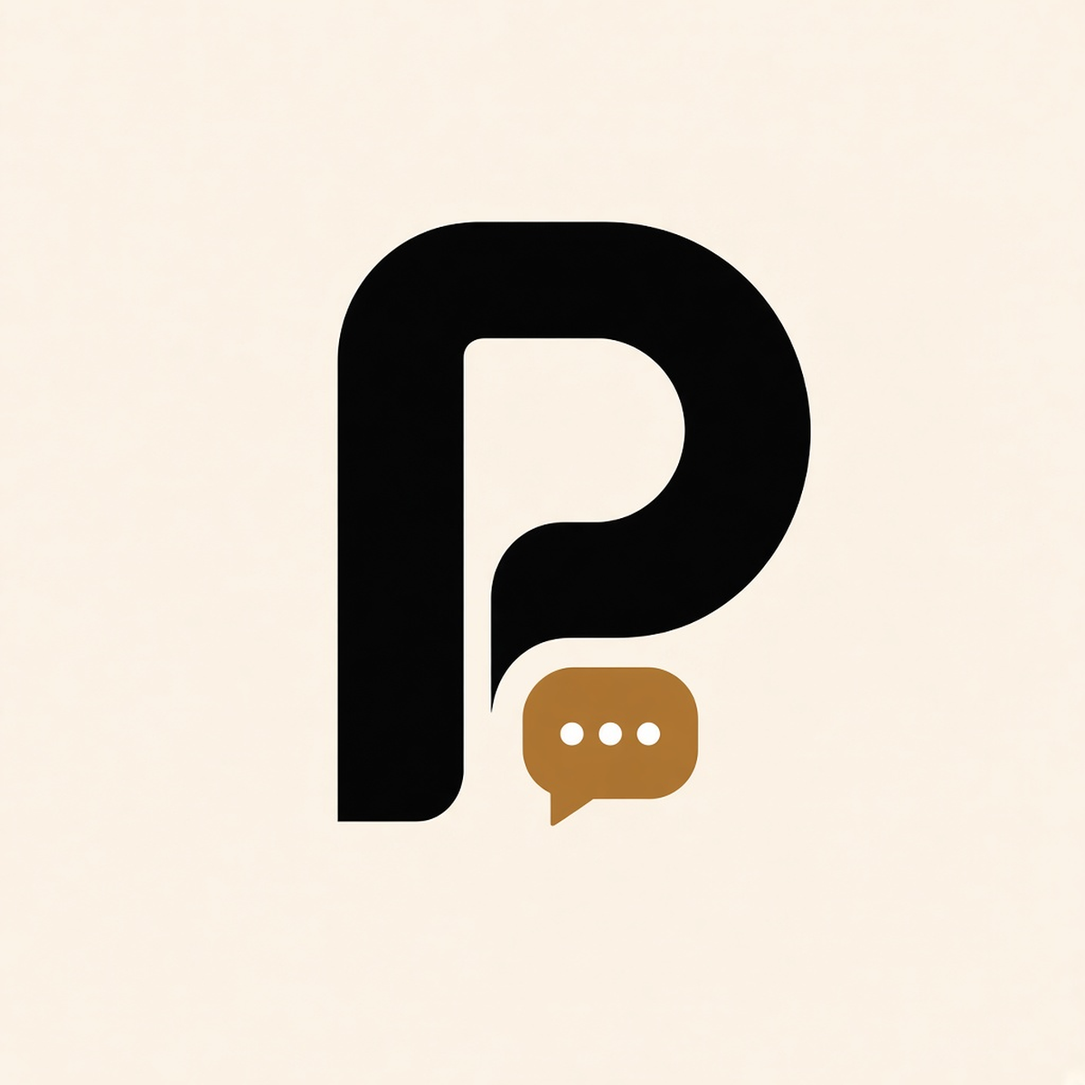
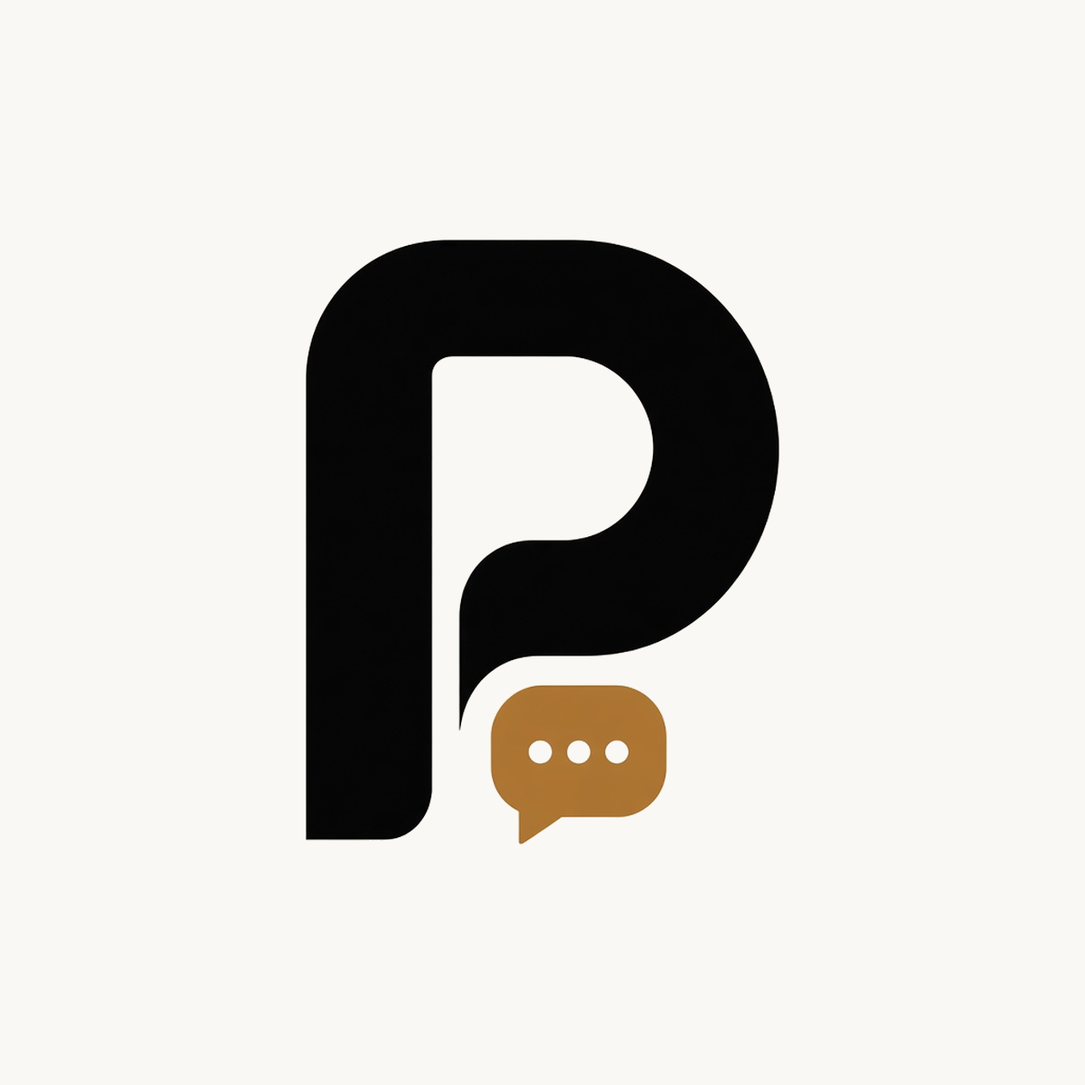
feat(podai): optional GA4 + App Store upload prep notes
Add PODAI_GA_ID / PODAI_LISTING_GA_ID. Admin + storefront emit
anonymous events (consent-aware on storefront). Privacy policy
mentions GA4. Plan A billing: Shopify App Pricing (no Billing API).
Listing icon refreshed to cream tile + approved P.

Changed region(s): [[0.2775, 0.2467, 0.6475, 0.8017], [0.3392, 0.185, 0.7708, 0.5858]]

diff --git a/apps/shopify-agent/extensions/podai-chat/assets/chat.js b/apps/shopify-agent/extensions/podai-chat/assets/chat.js
@@ -1,2 +1,1 @@
-/*! Pod.AI chat. Source: apps/shopify-agent/src/chat.js (npx terser src/chat.js -c -m) */
-!function(){var e=document.getElementById("podai-chat-root");if(e&&!e.dataset.ready){e.dataset.ready="1";var t=e.dataset,n=t.proxy,i="podai_conv",a=null,r=!1,o=!1,c={};try{a=sessionStorage.getItem(i)}catch(e){}var l=String(t.lang||navigator.language||"en").toLowerCase(),p=["zh","de","fr","it"].filter(function(e){return 0===l.indexOf(e)})[0]||"en",s={online:"Online · replies instantly",hi:"Hi! Ask me about products, shipping or your order.",open:"Open chat",close:"Close chat",send:"Send",view:"View",add:"Add to cart",track:"Track parcel",email:"Your e-mail",ok:"Send",err:"Sorry, the chat is not available right now.",chips:["Show products","Where is my order?","Shipping costs"],by:"AI assistant · may make mistakes",items:"Items",reply:"We'll reply to {e}.",change:"Change e-mail",thanks:"Thanks — our team will reply by e-mail."},d=C(p),u=L("button","pc-l"),f=L("div","pc-w"),m=L("div","pc-h"),h=L("div","pc-av"),g=L("div","pc-t"),v=L("b"),b=L("small",null,d.online),y=L("button"),w=L("div","pc-log"),k=L("form","pc-f"),x=L("textarea"),A=L("button"),S=L("div","pc-ft",d.by),_=L("div","pc-sr");u.type="button",u.setAttribute("aria-label",d.open),u.setAttribute("aria-expanded","false"),u.setAttribute("aria-controls","pc-win"),u.innerHTML=E('<path class="o" d="M21 12a8 8 0 0 1-11.6 7.1L4 20l1-4.6A8 8 0 1 1 21 12z"/>').replace("<svg ",'<svg class="o" ')+E('<path d="M18 6 6 18M6 6l12 12"/>').replace("<svg ",'<svg class="x" '),f.id="pc-win",f.setAttribute("role","dialog"),f.setAttribute("aria-modal","false"),f.setAttribute("aria-label",t.shop||"Chat"),y.type="button",y.setAttribute("aria-label",d.close),y.innerHTML=E('<path d="M6 9l6 6 6-6"/>'),w.setAttribute("role","log"),w.setAttribute("aria-live","polite"),_.setAttribute("aria-live","polite"),x.rows=1,x.maxLength=1e3,x.placeholder=t.placeholder||{en:"Write a message…",zh:"输入您的问题…",de:"Ihre Frage…",fr:"Votre message…",it:"Scrivi un messaggio…"}[p],x.setAttribute("aria-label",x.placeholder),A.type="submit",A.setAttribute("aria-label",d.send),A.innerHTML=E('<path d="M5 12h14M13 6l6 6-6 6"/>'),g.append(v,b),m.append(h,g,y),k.append(x,A),f.append(m,w,k,S,_),M(),document.body.append(u,f),fetch(n+"/config",{credentials:"same-origin"}).then(function(e){return e.ok?e.json():{}}).then(function(e){if(!1===(c=e||{}).enabled)return u.remove(),void f.remove();c.widget&&c.widget.language&&"auto"!==c.widget.language&&["en","zh","de","fr","it"].indexOf(c.widget.language)>=0&&(p=c.widget.language,d=C(p),b.textContent=d.online,S.textContent=d.by),M();try{var t="podai_ping",n=Date.now();n-(+localStorage.getItem(t)||0)<864e5||(localStorage.setItem(t,n),T("embed_ping"))}catch(e){}}).catch(function(){}),u.onclick=function(){U()},y.onclick=function(){U(!1)},document.addEventListener("keydown",function(e){"Escape"===e.key&&f.classList.contains("pc-on")&&U(!1)}),x.addEventListener("input",function(){x.style.height="auto",x.style.height=Math.min(110,x.scrollHeight)+"px"}),x.addEventListener("keydown",function(e){"Enter"!==e.key||e.shiftKey||(e.preventDefault(),k.requestSubmit?k.requestSubmit():k.onsubmit(e))}),k.onsubmit=function(e){e.preventDefault();var t=x.value;x.value="",x.style.height="auto",D(t)},/[?&]podai=open/.test(location.search)&&U(!0)}function C(e){var t=window.PodAIChatI18n||{};return"en"===e?s:t[e]||s}function L(e,t,n){var i=document.createElement(e);return t&&(i.className=t),null!=n&&(i.textContent=n),i}function E(e){return'<svg viewBox="0 0 24 24" fill="none" stroke="currentColor" stroke-width="2" stroke-linecap="round" stroke-linejoin="round" aria-hidden="true">'+e+"</svg>"}function I(e,t){return fetch(n+e,{method:"POST",headers:{"Content-Type":"application/json"},credentials:"same-origin",body:JSON.stringify(t)})}function T(e,t){try{I("/event",Object.assign({type:e,conversation_id:a},t||{})).catch(function(){})}catch(e){}}function M(){var e=/^#[0-9a-f]{6}$/i.test(t.accent||"")?t.accent:c.widget&&c.widget.color||"#2b2520",n="left"===("left"===t.position||"right"===t.position?t.position:c.widget&&c.widget.position||"right")?"pc-lft":"pc-r";[u,f].forEach(function(t){t.style.setProperty("--a",e),t.classList.remove("pc-lft","pc-r"),t.classList.add(n)}),v.textContent=t.title||c.widget&&c.widget.title||t.shop||"Chat";var i=t.avatar||c.widget&&c.widget.avatar;if(h.innerHTML="",i){var a=L("img");a.src=i,a.alt="",h.append(a)}else h.textContent=String(v.textContent).trim().charAt(0).toUpperCase()||"P"}function j(){w.scrollTop=w.scrollHeight}function H(e,t){var n=L("div","pc-m "+e,t);return w.append(n),j(),n}function O(e){var t=L("div","pc-ch");e.forEach(function(e){var n=L("button",null,e);n.type="button",n.onclick=function(){t.remove(),D(e)},t.append(n)}),w.append(t),j()}function P(e){try{var t=new URL(e,location.origin);return t.origin===location.origin&&(t.searchParams.set("utm_source","podai"),t.searchParams.set("utm_medium","chat")),t.toString()}catch(t){return e}}function q(e){(e||[]).forEach(function(e){if("chips"===e.type&&e.items&&e.items.length&&O(e.items),"products"===e.type){var t=L("div","pc-car");t.setAttribute("role","list"),e.items.forEach(function(e){if(e.link){var n=L("div","pc-pc");n.setAttribute("role","listitem");var i=L("a","pc-img");if(i.href=P(e.link),i.tabIndex=-1,i.onclick=function(){T("product_click",{product_id:e.id})},e.image){var a=L("img");a.src=e.image+(e.image.indexOf("?")<0?"?width=320":""),a.alt=e.name,a.loading="lazy",a.width=156,a.height=156,i.append(a)}var r=L("div","pc-b");r.append(L("b",null,e.name),L("span","pc-p",function(e,t){if(!isFinite(e))return"";try{return new Intl.NumberFormat(document.documentElement.lang||void 0,{style:"currency",currency:t||"USD"}).format(e)}catch(n){return Number(e).toFixed(2)+" "+(t||"")}}(e.unit_price,e.currency)));var o=L("div","pc-btn"),c=L("a",null,d.view);if(c.href=P(e.link),c.onclick=i.onclick,o.append(c),e.variant_id){var l=L("a","pc-pri",d.add);l.href="/cart/add?id="+encodeURIComponent(e.variant_id)+"&quantity=1&utm_source=podai&utm_medium=chat",l.onclick=function(){T("add_to_cart",{product_id:e.id})},o.append(l)}r.append(o),n.append(i,r),t.append(n);try{var p=new URL(e.link,location.origin);(p.origin===location.origin||/\.myshopify\.com$/.test(p.hostname))&&fetch(p.pathname.replace(/\/$/,"")+".js",{credentials:"same-origin"}).then(function(e){404===e.status&&(n.remove(),t.children.length||t.remove())}).catch(function(){})}catch(e){}}}),w.append(t),e.note&&w.append(L("div","pc-note",e.note))}if("handoff"===e.type)if(e.email){var n=L("div","pc-hf pc-hr"),i=L("span",null,d.reply.replace("{e}",e.email)),a=L("button","pc-sm",d.change);a.type="button",a.style.flex="0 0 auto",a.onclick=function(){n.remove(),z()},n.append(i,a),w.append(n)}else z();if("order"===e.type&&e.order){var r=e.order,o=L("div","pc-oc"),c=L("div","pc-r1"),l=String(r.cancelled?"cancelled":r.fulfillment||"").toLowerCase().replace(/_/g," "),p=L("span","pc-bd"+(/^fulfilled|delivered/.test(l)?" ok":""),l);c.append(L("b",null,r.name),p),o.append(c),o.append(L("div","pc-mu",(r.items||[]).map(function(e){return e.quantity+"× "+e.title}).join(", "))),w.append(o)}if("tracking"===e.type){var s=L("div","pc-oc"),u=L("div","pc-r1");if(u.append(L("b",null,e.carrier||"")),u.append(L("span","pc-mu",e.number)),e.status&&u.append(L("span","pc-bd",e.status)),s.append(u),e.events&&e.events.length){var f=L("ul","pc-tl");e.events.slice(0,4).forEach(function(e){var t=L("li");t.append(L("b",null,e.text||""),L("span","pc-mu",[e.time&&String(e.time).slice(0,16).replace("T"," "),e.location].filter(Boolean).join(" · "))),f.append(t)}),s.append(f)}if(e.url){var m=L("a","pc-sm pc-pri",d.track+" →");m.href=e.url,m.target="_blank",m.rel="noopener",s.append(m)}w.append(s)}}),j()}function z(){var e=L("form","pc-hf"),t=L("input"),n=L("button","pc-sm pc-pri",d.ok);t.type="email",t.required=!0,t.placeholder=d.email,t.autocomplete="email",t.setAttribute("aria-label",d.email),n.type="submit",n.style.flex="0 0 auto",e.append(t,n),e.onsubmit=function(n){if(n.preventDefault(),t.checkValidity()){var i=t.value;e.remove(),D(i,!1,!0)}},w.append(e),j(),setTimeout(function(){t.focus()},50)}function D(e,t,n){if((e=String(e||"").trim())&&!r){r=!0,A.disabled=!0,t||H("pc-u",e);var o=L("div","pc-ty");o.innerHTML="<i></i><i></i><i></i>",o.setAttribute("aria-label","…"),w.append(o),j(),I("/chat",{message:e,conversation_id:a,lang:p,page:location.pathname}).then(function(e){return e.json()}).then(function(e){if(o.remove(),e.conversation_id){a=e.conversation_id;try{sessionStorage.setItem(i,a)}catch(e){}}e.language&&(d=C(e.language)),H("pc-a",e.answer||d.err),_.textContent=e.answer||"",q(e.ui);var t=(e.ui||[]).some(function(e){return"handoff"===e.type});e.handoff&&!t&&!n&&/e-?mail|邮箱/i.test(e.answer||"")&&z()}).catch(function(){o.remove(),H("pc-a",d.err)}).then(function(){r=!1,A.disabled=!1})}}function U(e){if(e=null==e?!f.classList.contains("pc-on"):e,f.classList.toggle("pc-on",e),u.setAttribute("aria-expanded",String(e)),u.setAttribute("aria-label",e?d.close:d.open),e&&!o){d=C(p),b.textContent=d.online,S.textContent=d.by,o=!0,T("chat_open");var n=c.greeting&&c.greeting[p];H("pc-a",t.greeting||n||d.hi),O(d.chips)}e?setTimeout(function(){window.innerWidth>520&&x.focus()},250):u.focus(),window.innerWidth<=520&&(document.documentElement.style.overflow=e?"hidden":"")}}();
+!function(){var e=document.getElementById("podai-chat-root");if(e&&!e.dataset.ready){e.dataset.ready="1";var t=e.dataset,n=t.proxy,i="podai_conv",a=null,o=!1,r=!1,c={};try{a=sessionStorage.getItem(i)}catch(e){}var l=String(t.lang||navigator.language||"en").toLowerCase(),s=["zh","de","fr","it"].filter(function(e){return 0===l.indexOf(e)})[0]||"en",p={online:"Online · replies instantly",hi:"Hi! Ask me about products, shipping or your order.",open:"Open chat",close:"Close chat",send:"Send",view:"View",add:"Add to cart",track:"Track parcel",email:"Your e-mail",ok:"Send",err:"Sorry, the chat is not available right now.",chips:["Show products","Where is my order?","Shipping costs"],by:"AI assistant · may make mistakes",items:"Items",reply:"We'll reply to {e}.",change:"Change e-mail",thanks:"Thanks — our team will reply by e-mail."},d=E(s),u="",f=!1,g=I("button","pc-l"),m=I("div","pc-w"),h=I("div","pc-h"),v=I("div","pc-av"),y=I("div","pc-t"),b=I("b"),w=I("small",null,d.online),k=I("button"),_=I("div","pc-log"),S=I("form","pc-f"),A=I("textarea"),x=I("button"),C=I("div","pc-ft",d.by),L=I("div","pc-sr");g.type="button",g.setAttribute("aria-label",d.open),g.setAttribute("aria-expanded","false"),g.setAttribute("aria-controls","pc-win"),g.innerHTML=T('<path class="o" d="M21 12a8 8 0 0 1-11.6 7.1L4 20l1-4.6A8 8 0 1 1 21 12z"/>').replace("<svg ",'<svg class="o" ')+T('<path d="M18 6 6 18M6 6l12 12"/>').replace("<svg ",'<svg class="x" '),m.id="pc-win",m.setAttribute("role","dialog"),m.setAttribute("aria-modal","false"),m.setAttribute("aria-label",t.shop||"Chat"),k.type="button",k.setAttribute("aria-label",d.close),k.innerHTML=T('<path d="M6 9l6 6 6-6"/>'),_.setAttribute("role","log"),_.setAttribute("aria-live","polite"),L.setAttribute("aria-live","polite"),A.rows=1,A.maxLength=1e3,A.placeholder=t.placeholder||{en:"Write a message…",zh:"输入您的问题…",de:"Ihre Frage…",fr:"Votre message…",it:"Scrivi un messaggio…"}[s],A.setAttribute("aria-label",A.placeholder),x.type="submit",x.setAttribute("aria-label",d.send),x.innerHTML=T('<path d="M5 12h14M13 6l6 6-6 6"/>'),y.append(b,w),h.append(v,y,k),S.append(A,x),m.append(h,_,S,C,L),H(),document.body.append(g,m),fetch(n+"/config",{credentials:"same-origin"}).then(function(e){return e.ok?e.json():{}}).then(function(e){if(!1===(c=e||{}).enabled)return g.remove(),void m.remove();c.ga_id&&/^G-[A-Z0-9]+$/i.test(c.ga_id)&&(u=String(c.ga_id).toUpperCase()),c.widget&&c.widget.language&&"auto"!==c.widget.language&&["en","zh","de","fr","it"].indexOf(c.widget.language)>=0&&(s=c.widget.language,d=E(s),w.textContent=d.online,C.textContent=d.by),H();try{var t="podai_ping",n=Date.now();n-(+localStorage.getItem(t)||0)<864e5||(localStorage.setItem(t,n),P("embed_ping"))}catch(e){}}).catch(function(){}),g.onclick=function(){R()},k.onclick=function(){R(!1)},document.addEventListener("keydown",function(e){"Escape"===e.key&&m.classList.contains("pc-on")&&R(!1)}),A.addEventListener("input",function(){A.style.height="auto",A.style.height=Math.min(110,A.scrollHeight)+"px"}),A.addEventListener("keydown",function(e){"Enter"!==e.key||e.shiftKey||(e.preventDefault(),S.requestSubmit?S.requestSubmit():S.onsubmit(e))}),S.onsubmit=function(e){e.preventDefault();var t=A.value;A.value="",A.style.height="auto",N(t)},/[?&]podai=open/.test(location.search)&&R(!0)}function E(e){var t=window.PodAIChatI18n||{};return"en"===e?p:t[e]||p}function I(e,t,n){var i=document.createElement(e);return t&&(i.className=t),null!=n&&(i.textContent=n),i}function T(e){return'<svg viewBox="0 0 24 24" fill="none" stroke="currentColor" stroke-width="2" stroke-linecap="round" stroke-linejoin="round" aria-hidden="true">'+e+"</svg>"}function M(e,t){return fetch(n+e,{method:"POST",headers:{"Content-Type":"application/json"},credentials:"same-origin",body:JSON.stringify(t)})}function P(e,t){try{M("/event",Object.assign({type:e,conversation_id:a},t||{})).catch(function(){})}catch(e){}}function j(e){u&&function(e){try{var t=window.Shopify&&Shopify.customerPrivacy;if(t&&"function"==typeof t.analyticsProcessingAllowed)return e(!!t.analyticsProcessingAllowed());if(window.Shopify&&Shopify.loadFeatures)return void Shopify.loadFeatures([{name:"consent-tracking-api",version:"0.1"}],function(){try{var t=Shopify.customerPrivacy;e(!t||"function"!=typeof t.analyticsProcessingAllowed||!!t.analyticsProcessingAllowed())}catch(t){e(!0)}})}catch(e){}e(!0)}(function(t){if(t){if(!f){f=!0,window.dataLayer=window.dataLayer||[],window.gtag=window.gtag||function(){dataLayer.push(arguments)};var n=document.createElement("script");n.async=!0,n.src="https://www.googletagmanager.com/gtag/js?id="+encodeURIComponent(u),document.head.appendChild(n),gtag("js",new Date),gtag("config",u,{anonymize_ip:!0,send_page_view:!1})}e&&e()}})}function O(e,t){u&&j(function(){try{var n=Object.assign({},t||{});delete n.email,delete n.message,delete n.text,delete n.conversation_id,delete n.customer,gtag("event",String(e).slice(0,40),n)}catch(e){}})}function H(){var e=/^#[0-9a-f]{6}$/i.test(t.accent||"")?t.accent:c.widget&&c.widget.color||"#2b2520",n="left"===("left"===t.position||"right"===t.position?t.position:c.widget&&c.widget.position||"right")?"pc-lft":"pc-r";[g,m].forEach(function(t){t.style.setProperty("--a",e),t.classList.remove("pc-lft","pc-r"),t.classList.add(n)}),b.textContent=t.title||c.widget&&c.widget.title||t.shop||"Chat";var i=t.avatar||c.widget&&c.widget.avatar;if(v.innerHTML="",i){var a=I("img");a.src=i,a.alt="",v.append(a)}else v.textContent=String(b.textContent).trim().charAt(0).toUpperCase()||"P"}function U(){_.scrollTop=_.scrollHeight}function z(e,t){var n=I("div","pc-m "+e,t);return _.append(n),U(),n}function D(e){var t=I("div","pc-ch");e.forEach(function(e){var n=I("button",null,e);n.type="button",n.onclick=function(){t.remove(),N(e)},t.append(n)}),_.append(t),U()}function F(e){try{var t=new URL(e,location.origin);return t.origin===location.origin&&(t.searchParams.set("utm_source","podai"),t.searchParams.set("utm_medium","chat")),t.toString()}catch(t){return e}}function q(e){(e||[]).forEach(function(e){if("chips"===e.type&&e.items&&e.items.length&&D(e.items),"products"===e.type){var t=I("div","pc-car");t.setAttribute("role","list"),e.items.forEach(function(e){if(e.link){var n=I("div","pc-pc");n.setAttribute("role","listitem");var i=I("a","pc-img");if(i.href=F(e.link),i.tabIndex=-1,i.onclick=function(){P("product_click",{product_id:e.id}),O("product_clicked")},e.image){var a=I("img");a.src=e.image+(e.image.indexOf("?")<0?"?width=320":""),a.alt=e.name,a.loading="lazy",a.width=156,a.height=156,i.append(a)}var o=I("div","pc-b");o.append(I("b",null,e.name),I("span","pc-p",function(e,t){if(!isFinite(e))return"";try{return new Intl.NumberFormat(document.documentElement.lang||void 0,{style:"currency",currency:t||"USD"}).format(e)}catch(n){return Number(e).toFixed(2)+" "+(t||"")}}(e.unit_price,e.currency)));var r=I("div","pc-btn"),c=I("a",null,d.view);if(c.href=F(e.link),c.onclick=i.onclick,r.append(c),e.variant_id){var l=I("a","pc-pri",d.add);l.href="/cart/add?id="+encodeURIComponent(e.variant_id)+"&quantity=1&utm_source=podai&utm_medium=chat",l.onclick=function(){P("add_to_cart",{product_id:e.id}),O("add_to_cart")},r.append(l)}o.append(r),n.append(i,o),t.append(n);try{var s=new URL(e.link,location.origin);(s.origin===location.origin||/\.myshopify\.com$/.test(s.hostname))&&fetch(s.pathname.replace(/\/$/,"")+".js",{credentials:"same-origin"}).then(function(e){404===e.status&&(n.remove(),t.children.length||t.remove())}).catch(function(){})}catch(e){}}}),_.append(t),e.note&&_.append(I("div","pc-note",e.note))}if("handoff"===e.type)if(O("handoff_shown"),e.email){var n=I("div","pc-hf pc-hr"),i=I("span",null,d.reply.replace("{e}",e.email)),a=I("button","pc-sm",d.change);a.type="button",a.style.flex="0 0 auto",a.onclick=function(){n.remove(),W()},n.append(i,a),_.append(n)}else W();if("order"===e.type&&e.order){O("order_lookup");var o=e.order,r=I("div","pc-oc"),c=I("div","pc-r1"),l=String(o.cancelled?"cancelled":o.fulfillment||"").toLowerCase().replace(/_/g," "),s=I("span","pc-bd"+(/^fulfilled|delivered/.test(l)?" ok":""),l);c.append(I("b",null,o.name),s),r.append(c),r.append(I("div","pc-mu",(o.items||[]).map(function(e){return e.quantity+"× "+e.title}).join(", "))),_.append(r)}if("tracking"===e.type){var p=I("div","pc-oc"),u=I("div","pc-r1");if(u.append(I("b",null,e.carrier||"")),u.append(I("span","pc-mu",e.number)),e.status&&u.append(I("span","pc-bd",e.status)),p.append(u),e.events&&e.events.length){var f=I("ul","pc-tl");e.events.slice(0,4).forEach(function(e){var t=I("li");t.append(I("b",null,e.text||""),I("span","pc-mu",[e.time&&String(e.time).slice(0,16).replace("T"," "),e.location].filter(Boolean).join(" · "))),f.append(t)}),p.append(f)}if(e.url){var g=I("a","pc-sm pc-pri",d.track+" →");g.href=e.url,g.target="_blank",g.rel="noopener",p.append(g)}_.append(p)}}),U()}function W(){var e=I("form","pc-hf"),t=I("input"),n=I("button","pc-sm pc-pri",d.ok);t.type="email",t.required=!0,t.placeholder=d.email,t.autocomplete="email",t.setAttribute("aria-label",d.email),n.type="submit",n.style.flex="0 0 auto",e.append(t,n),e.onsubmit=function(n){if(n.preventDefault(),t.checkValidity()){var i=t.value;e.remove(),N(i,!1,!0)}},_.append(e),U(),setTimeout(function(){t.focus()},50)}function N(e,t,n){if((e=String(e||"").trim())&&!o){o=!0,x.disabled=!0,t||(z("pc-u",e),n||O("message_sent"));var r=I("div","pc-ty");r.innerHTML="<i></i><i></i><i></i>",r.setAttribute("aria-label","…"),_.append(r),U(),M("/chat",{message:e,conversation_id:a,lang:s,page:location.pathname}).then(function(e){return e.json()}).then(function(e){if(r.remove(),e.conversation_id){a=e.conversation_id;try{sessionStorage.setItem(i,a)}catch(e){}}e.language&&(d=E(e.language)),z("pc-a",e.answer||d.err),L.textContent=e.answer||"",q(e.ui);var t=(e.ui||[]).some(function(e){return"handoff"===e.type});e.handoff&&!t&&!n&&/e-?mail|邮箱/i.test(e.answer||"")&&W()}).catch(function(){r.remove(),z("pc-a",d.err)}).then(function(){o=!1,x.disabled=!1})}}function R(e){if(e=null==e?!m.classList.contains("pc-on"):e,m.classList.toggle("pc-on",e),g.setAttribute("aria-expanded",String(e)),g.setAttribute("aria-label",e?d.close:d.open),e&&!r){d=E(s),w.textContent=d.online,C.textContent=d.by,r=!0,P("chat_open"),O("chat_opened");var n=c.greeting&&c.greeting[s];z("pc-a",t.greeting||n||d.hi),D(d.chips)}e?setTimeout(function(){window.innerWidth>520&&A.focus()},250):g.focus(),window.innerWidth<=520&&(document.documentElement.style.overflow=e?"hidden":"")}}();

diff --git a/apps/shopify-agent/src/chat.js b/apps/shopify-agent/src/chat.js
@@ -16,6 +16,49 @@
   function post(path, body) { return fetch(P + path, { method: "POST", headers: { "Content-Type": "application/json" }, credentials: "same-origin", body: JSON.stringify(body) }); }
   function ev(type, extra) { try { post("/event", Object.assign({ type: type, conversation_id: conv }, extra || {})).catch(function () {}); } catch (e) {} }
 
+  // GA4 (optional): measurement ID from /config.ga_id. Anonymous events only; respect Shopify Customer Privacy.
+  var gaId = "", gaLoaded = false;
+  function analyticsAllowed(cb) {
+    try {
+      var cp = window.Shopify && Shopify.customerPrivacy;
+      if (cp && typeof cp.analyticsProcessingAllowed === "function") return cb(!!cp.analyticsProcessingAllowed());
+      if (window.Shopify && Shopify.loadFeatures) {
+        Shopify.loadFeatures([{ name: "consent-tracking-api", version: "0.1" }], function () {
+          try { var c2 = Shopify.customerPrivacy; cb(c2 && typeof c2.analyticsProcessingAllowed === "function" ? !!c2.analyticsProcessingAllowed() : true); }
+          catch (e) { cb(true); }
+        });
+        return;
+      }
+    } catch (e) {}
+    cb(true); // no privacy API → allow (many themes without banner)
+  }
+  function ensureGa(cb) {
+    if (!gaId) return;
+    analyticsAllowed(function (ok) {
+      if (!ok) return;
+      if (!gaLoaded) {
+        gaLoaded = true;
+        window.dataLayer = window.dataLayer || [];
+        window.gtag = window.gtag || function () { dataLayer.push(arguments); };
+        var sc = document.createElement("script"); sc.async = true; sc.src = "https://www.googletagmanager.com/gtag/js?id=" + encodeURIComponent(gaId);
+        document.head.appendChild(sc);
+        gtag("js", new Date());
+        gtag("config", gaId, { anonymize_ip: true, send_page_view: false });
+      }
+      if (cb) cb();
+    });
+  }
+  function gaEv(name, params) {
+    if (!gaId) return;
+    ensureGa(function () {
+      try {
+        var p = Object.assign({}, params || {});
+        delete p.email; delete p.message; delete p.text; delete p.conversation_id; delete p.customer;
+        gtag("event", String(name).slice(0, 40), p);
+      } catch (e) {}
+    });
+  }
+
   var btn = el("button", "pc-l"), win = el("div", "pc-w"), head = el("div", "pc-h"), av = el("div", "pc-av"), tt = el("div", "pc-t"), name = el("b"), sub = el("small", null, t.online), x = el("button");
   var log = el("div", "pc-log"), form = el("form", "pc-f"), ta = el("textarea"), send = el("button"), foot = el("div", "pc-ft", t.by), live = el("div", "pc-sr");
   btn.type = "button"; btn.setAttribute("aria-label", t.open); btn.setAttribute("aria-expanded", "false"); btn.setAttribute("aria-controls", "pc-win");
@@ -40,6 +83,7 @@
   document.body.append(btn, win);
   fetch(P + "/config", { credentials: "same-origin" }).then(function (r) { return r.ok ? r.json() : {}; }).then(function (c) {
     cfg = c || {}; if (cfg.enabled === false) { btn.remove(); win.remove(); return; }
+    if (cfg.ga_id && /^G-[A-Z0-9]+$/i.test(cfg.ga_id)) gaId = String(cfg.ga_id).toUpperCase();
     if (cfg.widget && cfg.widget.language && cfg.widget.language !== "auto" && ["en", "zh", "de", "fr", "it"].indexOf(cfg.widget.language) >= 0) { LANG = cfg.widget.language; t = tx(LANG); sub.textContent = t.online; foot.textContent = t.by; }
     apply();
     try { var k = "podai_ping", n = Date.now(); if (!(n - (+localStorage.getItem(k) || 0) < 864e5)) { localStorage.setItem(k, n); ev("embed_ping"); } } catch (e) {} // app-embed heartbeat
@@ -58,11 +102,11 @@
         u.items.forEach(function (p) {
           if (!p.link) return; // not on the Online Store → no card
           var c = el("div", "pc-pc"); c.setAttribute("role", "listitem");
-          var im = el("a", "pc-img"); im.href = link(p.link); im.tabIndex = -1; im.onclick = function () { ev("product_click", { product_id: p.id }); };
+          var im = el("a", "pc-img"); im.href = link(p.link); im.tabIndex = -1; im.onclick = function () { ev("product_click", { product_id: p.id }); gaEv("product_clicked"); };
           if (p.image) { var i = el("img"); i.src = p.image + (p.image.indexOf("?") < 0 ? "?width=320" : ""); i.alt = p.name; i.loading = "lazy"; i.width = 156; i.height = 156; im.append(i); }
           var b = el("div", "pc-b"); b.append(el("b", null, p.name), el("span", "pc-p", money(p.unit_price, p.currency)));
           var bt = el("div", "pc-btn"), v = el("a", null, t.view); v.href = link(p.link); v.onclick = im.onclick; bt.append(v);
-          if (p.variant_id) { var a = el("a", "pc-pri", t.add); a.href = "/cart/add?id=" + encodeURIComponent(p.variant_id) + "&quantity=1&utm_source=podai&utm_medium=chat"; a.onclick = function () { ev("add_to_cart", { product_id: p.id }); }; bt.append(a); }
+          if (p.variant_id) { var a = el("a", "pc-pri", t.add); a.href = "/cart/add?id=" + encodeURIComponent(p.variant_id) + "&quantity=1&utm_source=podai&utm_medium=chat"; a.onclick = function () { ev("add_to_cart", { product_id: p.id }); gaEv("add_to_cart"); }; bt.append(a); }
           b.append(bt); c.append(im, b); w.append(c);
           try { var pu = new URL(p.link, location.origin); if (pu.origin === location.origin || /\.myshopify\.com$/.test(pu.hostname)) fetch(pu.pathname.replace(/\/$/, "") + ".js", { credentials: "same-origin" }).then(function (r) { if (r.status === 404) { c.remove(); if (!w.children.length) w.remove(); } }).catch(function () {}); } catch (e) {} // not on the Online Store → drop
         });
@@ -70,11 +114,13 @@
         if (u.note) log.append(el("div", "pc-note", u.note));
       }
       if (u.type === "handoff") {
+        gaEv("handoff_shown");
         if (u.email) { var hr = el("div", "pc-hf pc-hr"), sp = el("span", null, t.reply.replace("{e}", u.email)), ch = el("button", "pc-sm", t.change); ch.type = "button"; ch.style.flex = "0 0 auto";
           ch.onclick = function () { hr.remove(); emailForm(); }; hr.append(sp, ch); log.append(hr); }
         else emailForm();
       }
       if (u.type === "order" && u.order) {
+        gaEv("order_lookup");
         var o = u.order, oc = el("div", "pc-oc"), r1 = el("div", "pc-r1"), f = String(o.cancelled ? "cancelled" : o.fulfillment || "").toLowerCase().replace(/_/g, " ");
         var bd = el("span", "pc-bd" + (/^fulfilled|delivered/.test(f) ? " ok" : ""), f); r1.append(el("b", null, o.name), bd); oc.append(r1);
         oc.append(el("div", "pc-mu", (o.items || []).map(function (i) { return i.quantity + "× " + i.title; }).join(", ")));
@@ -96,7 +142,7 @@
   }
   function ask(text, silent, isEmail) {
     text = String(text || "").trim(); if (!text || busy) return; busy = true; send.disabled = true;
-    if (!silent) msg("pc-u", text);
+    if (!silent) { msg("pc-u", text); if (!isEmail) gaEv("message_sent"); }
     var ty = el("div", "pc-ty"); ty.innerHTML = "<i></i><i></i><i></i>"; ty.setAttribute("aria-label", "…"); log.append(ty); scroll();
     post("/chat", { message: text, conversation_id: conv, lang: LANG, page: location.pathname })
       .then(function (r) { return r.json(); })
@@ -113,7 +159,7 @@
   function toggle(on) {
     on = on == null ? !win.classList.contains("pc-on") : on;
     win.classList.toggle("pc-on", on); btn.setAttribute("aria-expanded", String(on)); btn.setAttribute("aria-label", on ? t.close : t.open);
-    if (on && !opened) { t = tx(LANG); sub.textContent = t.online; foot.textContent = t.by; opened = true; ev("chat_open");
+    if (on && !opened) { t = tx(LANG); sub.textContent = t.online; foot.textContent = t.by; opened = true; ev("chat_open"); gaEv("chat_opened");
       var g = cfg.greeting && cfg.greeting[LANG]; msg("pc-a", d.greeting || g || t.hi); chips(t.chips); }
     if (on) setTimeout(function () { if (window.innerWidth > 520) ta.focus(); }, 250); else btn.focus();
     if (window.innerWidth <= 520) document.documentElement.style.overflow = on ? "hidden" : "";

diff --git a/server/shopify-agent/admin.html b/server/shopify-agent/admin.html
@@ -2,6 +2,7 @@
 <html lang="en"><head><meta charset="utf-8"><meta name="viewport" content="width=device-width,initial-scale=1">
 <meta name="shopify-api-key" content="__API_KEY__">
 <script src="https://cdn.shopify.com/shopifycloud/app-bridge.js"></script>
+<!--__PODAI_GA__-->
 <title>Pod.AI</title>
 <style>
 /* POD.AI design tokens (wed.swisspro.site / agent.html): warm ink + gold, glass cards, Inter + Georgia, pill controls */
@@ -162,6 +163,7 @@ const ADMIN_LANGS=["en","de","fr","it"];let L=localStorage.getItem("podai_lang")
 const t=(k,v={})=>String((T[L]||T.en)[k]??T.en[k]??k).replace(/\{(\w+)\}/g,(_,x)=>v[x]??"");
 const $=s=>document.querySelector(s),$$=s=>[...document.querySelectorAll(s)],esc=v=>String(v??"").replace(/[&<>"']/g,c=>({"&":"&amp;","<":"&lt;",">":"&gt;",'"':"&quot;","'":"&#39;"}[c]));
 const toast=(m,e)=>{try{shopify.toast.show(m,e?{isError:true}:undefined)}catch{}};
+function gaTrack(name,params){try{if(!window.gtag||!window.__PODAI_GA)return;const p=Object.assign({},params||{});delete p.email;delete p.message;delete p.text;delete p.conversation_id;delete p.customer;gtag("event",String(name).slice(0,40),p);}catch(e){}}
 async function api(path,opt={}){const token=await shopify.idToken();const r=await fetch("/shopify-agent/api"+path,{...opt,headers:{"Content-Type":"application/json",Authorization:"Bearer "+token,...(opt.headers||{})}});
  if(!r.ok)throw new Error((await r.json().catch(()=>({}))).error||r.status);return r.json();}
 const TABS=["overview","handoffs","knowledge","settings","preview"];let tab="overview",days=30,shop="",st={};
@@ -202,7 +204,7 @@ async function checklist(){const c=await api("/checklist"),tr=c.tracking||{},pol
  const live=(tr.carriers||[]).some(x=>x.configured)||tr.tracking51?.configured;
  const items=[[c.chat_seen,"warn","ck.embed","ck.embeds",embed],[has("SHIPPING_POLICY")&&has("REFUND_POLICY"),"warn","ck.pol","ck.pols",`https://${shop}/admin/settings/legal`],[c.protected_data==="ok","bad","ck.prot","ck.prots","https://shopify.dev/docs/apps/launch/protected-customer-data"],[!!tr.tracking51?.configured||live,"warn","ck.trk","ck.trks",null],[!!c.llm?.available,"opt","ck.llm","ck.llms",null]];
  const n=items.filter(x=>x[0]).length;$("#ckn").textContent=`${n}/${items.length} ${t("done")}`;$("#ckp").style.width=n/items.length*100+"%";
- $("#check").innerHTML=items.map(([ok,lv,h,s,href])=>`<li><span class="c ${ok?"ok":lv==="opt"?"":"w"}">${ok?'<svg class="i" viewBox="0 0 24 24"><path d="M20 6 9 17l-5-5"/></svg>':""}</span><div class="tx"><b>${t(h)}</b><span>${t(s)}</span></div>${!ok&&href?`<a class="btn s xs" target="_top" href="${esc(href)}">${t("setup")}</a>`:""}</li>`).join("");}
+ $("#check").innerHTML=items.map(([ok,lv,h,s,href])=>`<li><span class="c ${ok?"ok":lv==="opt"?"":"w"}">${ok?'<svg class="i" viewBox="0 0 24 24"><path d="M20 6 9 17l-5-5"/></svg>':""}</span><div class="tx"><b>${t(h)}</b><span>${t(s)}</span></div>${!ok&&href?`<a class="btn s xs" target="_top" data-ck="${h}" href="${esc(href)}">${t("setup")}</a>`:""}</li>`).join("");}
 let hoAll=[],hoF="";
 async function handoffs(){hoAll=await api("/handoffs");drawHo();}
 function drawHo(){const l=hoAll.filter(h=>!hoF||h.status===hoF);$("#hoEmpty").classList.toggle("hide",!!l.length);$("table.idx",$("#handoffs"));
@@ -228,7 +230,7 @@ async function settings(){const s=await api("/settings");$("#sen").checked=s.ena
  const tr=s.tracking_sources;$("#tsrc").innerHTML=tr?[...tr.carriers.map(c=>[c.name+(c.mode?` · ${c.mode}`:""),c.configured]),["51Tracking",tr.tracking51.configured]].map(([n,ok])=>`<div class="line"><div class="tx"><b>${esc(n)}</b></div><span class="badge ${ok?"b-ok":"b-warn"}">${t(ok?"cfg":"ncfg")}</span></div>`).join("")+`<div class="line"><div class="tx"><span>${t("fb")}</span></div></div>`:"";prevLook();}
 $("#spos").onclick=e=>{if(e.target.dataset.p){pos=e.target.dataset.p;prevLook();}};["#stitle","#sav","#sg_en","#sg_de","#sg_fr","#sg_it"].forEach(s=>$(s).oninput=prevLook);
 $("#ssave").onclick=()=>api("/settings",{method:"PUT",body:JSON.stringify({enabled:$("#sen").checked,llm_enabled:$("#sllm").checked,greeting:{en:$("#sg_en").value,de:$("#sg_de").value,fr:$("#sg_fr").value,it:$("#sg_it").value},human_reply_hours:Number($("#sh").value),
- widget:{color:$("#scol").value,position:pos,title:$("#stitle").value,avatar:$("#sav").value,language:$("#slang").value}})}).then(()=>toast(t("saved"))).catch(e=>toast(String(e.message),1));
+ widget:{color:$("#scol").value,position:pos,title:$("#stitle").value,avatar:$("#sav").value,language:$("#slang").value}})}).then(()=>{toast(t("saved"));gaTrack("settings_saved");}).catch(e=>toast(String(e.message),1));
 // Try it — same cards as the storefront widget
 let conv=null;const log=()=>$("#chat");
 function bub(c,txt){const d=document.createElement("div");d.className="m "+c;d.textContent=txt;log().append(d);log().scrollTop=1e9;return d;}
@@ -244,8 +246,8 @@ async function ask(m){m=String(m||"").trim();if(!m)return;bub("u",m);const ty=do
 $("#pform").onsubmit=e=>{e.preventDefault();const v=$("#pin").value;$("#pin").value="";ask(v);};
 function drawChips(){$("#pvchips").innerHTML=["q1","q2","q3","q4"].map(k=>`<button type="button">${t(k)}</button>`).join("");$("#pvchips").onclick=e=>e.target.tagName==="BUTTON"&&ask(e.target.textContent);}
 const load={overview,handoffs,knowledge,settings,preview:async()=>{drawChips();if(!log().children.length)bub("a",($("#sg_"+L)||$("#sg_en")).value||t("hello"));}};
-function go(x){tab=x;$$("section").forEach(s=>s.classList.toggle("hide",s.id!==x));i18n();load[x]().catch(e=>toast(String(e.message),1));}
-document.addEventListener("click",e=>{const b=e.target.closest("[data-t],[data-go]");if(b&&(b.dataset.t||b.dataset.go)&&b.closest("#tabs,#sla"))go(b.dataset.t||b.dataset.go);});
+function go(x){tab=x;$$("section").forEach(s=>s.classList.toggle("hide",s.id!==x));i18n();load[x]().catch(e=>toast(String(e.message),1));gaTrack("admin_view",{screen_name:x});if(x==="overview")gaTrack("dashboard_view",{days:days});}
+document.addEventListener("click",e=>{const b=e.target.closest("[data-t],[data-go]");if(b&&(b.dataset.t||b.dataset.go)&&b.closest("#tabs,#sla"))go(b.dataset.t||b.dataset.go);const ck=e.target.closest("[data-ck]");if(ck)gaTrack("onboarding_step",{step:ck.dataset.ck});});
 $("#range").onclick=e=>{const d=e.target.dataset.d;if(!d)return;days=+d;$$("#range button").forEach(b=>b.classList.toggle("on",b===e.target));overview().catch(er=>toast(String(er.message),1));};
 $("#hof").onclick=e=>{if(e.target.dataset.s===undefined)return;hoF=e.target.dataset.s;$$("#hof button").forEach(b=>b.classList.toggle("on",b===e.target));drawHo();};
 $("#lang").onclick=e=>{if(!e.target.dataset.l)return;L=e.target.dataset.l;localStorage.setItem("podai_lang",L);go(tab);};

diff --git a/server/shopify-agent/privacy.html b/server/shopify-agent/privacy.html
@@ -16,7 +16,7 @@ code{background:#f3ece3;padding:1px 5px;border-radius:5px;font-size:13.5px}foote
 <header><div class="logo"><img src="/shopify-agent/podai-icon.png" alt="Pod.AI" width="40" height="40"></div><div class="brand">Pod.AI<small>by POD.AI</small></div></header>
 <main>
 <h1>Privacy Policy</h1>
-<p class="mut">Pod.AI — AI customer chat for Shopify stores · Last updated: 4 November 2026</p>
+<p class="mut">Pod.AI — AI customer chat for Shopify stores · Last updated: 9 November 2026</p>
 
 <p>Pod.AI ("the App") is a Shopify app operated by Dropking AI ("we", "us"), under the POD.AI brand. It adds a customer chat to a merchant's online store that answers questions about products, shipping, policies and orders, and passes questions it cannot answer to the merchant's team. This policy explains what data the App accesses, why, where it is stored, how long it is kept and how it is deleted.</p>
 <p>For data about their customers, the merchant is the data controller and Dropking AI acts as a processor on the merchant's behalf. For merchant account data (shop domain, settings, access token) Dropking AI is the data controller.</p>
@@ -37,7 +37,7 @@ code{background:#f3ece3;padding:1px 5px;border-radius:5px;font-size:13.5px}foote
 <li><b>Handoffs</b>: when the App passes a conversation to the merchant's team, the handoff record holds the reason, a short summary, the customer's messages and their e-mail for the reply.</li>
 <li><b>Anonymous storefront events</b>: chat opened, product card clicked, add to cart via a card, and a daily "chat installed" heartbeat. These contain no personal data.</li>
 </ul>
-<p>The App does not use cookies for tracking. It stores a random chat ID and the time of the last heartbeat in the visitor's browser storage so the conversation can continue across pages. We do not sell data, use it for advertising, or combine it across stores.</p>
+<p>The App does not use first-party tracking cookies of its own. It stores a random chat ID and the time of the last heartbeat in the visitor's browser storage so the conversation can continue across pages. When Google Analytics is enabled, GA may set its own cookies / storage after analytics consent; events are anonymous (no chat content or customer identifiers). We do not sell data, use it for advertising, or combine it across stores.</p>
 
 <h2>3. Where data is stored</h2>
 <p>Data is stored on our application server in Germany (Frankfurt), separated per shop. Collections used: <code>podai_conversations</code>, <code>podai_handoffs</code>, <code>podai_events</code>, <code>podai_settings</code>, <code>podai_shops</code> (the shop's access token, encrypted at rest) and <code>podai_gdpr</code> (a log of privacy requests with hashed customer identifiers). All traffic uses HTTPS. Requests from the storefront are verified with Shopify's app-proxy signature; admin requests use Shopify session tokens.</p>
@@ -47,7 +47,8 @@ code{background:#f3ece3;padding:1px 5px;border-radius:5px;font-size:13.5px}foote
 <tr><td>Shopify</td><td>API requests for the data above</td><td>Always</td></tr>
 <tr><td>Carrier tracking APIs (e.g. YunExpress, 4PX)</td><td>Tracking number only</td><td>When a customer asks about a shipped order and the carrier is supported</td></tr>
 <tr><td>51Tracking</td><td>Tracking number and carrier code only</td><td>Fallback parcel tracking, if enabled</td></tr>
-<tr><td>Large language model provider (optional; e.g. OpenAI, xAI or DeepSeek, as configured)</td><td>The customer's message, recent chat context and the store's public product / policy facts needed to answer</td><td>Only if an LLM is configured and the merchant has "LLM answers" switched on. Otherwise answers come from built-in rules and the store's own data.</td></tr></table>
+<tr><td>Large language model provider (optional; e.g. OpenAI, xAI or DeepSeek, as configured)</td><td>The customer's message, recent chat context and the store's public product / policy facts needed to answer</td><td>Only if an LLM is configured and the merchant has "LLM answers" switched on. Otherwise answers come from built-in rules and the store's own data.</td></tr><tr><td>Google Analytics 4 (optional)</td><td>Anonymous event names only (e.g. chat opened, settings saved). No message text, e-mail, name, order number or conversation ID. IP anonymized.</td><td>Only when a measurement ID is configured on the server (<code>PODAI_GA_ID</code>). Storefront loads GA only after analytics consent via Shopify's Customer Privacy API when the store has a cookie banner.</td></tr>
+</table>
 <p>No customer e-mail addresses or names are sent to carriers or 51Tracking. The App does not send e-mails to customers.</p>
 
 <h2>5. Retention</h2>

diff --git a/server/shopify-agent/test/ga.test.js b/server/shopify-agent/test/ga.test.js
@@ -1,0 +1,57 @@
+import { test } from "node:test";
+import assert from "node:assert/strict";
+import { measurementId, listingMeasurementId, adminSnippet, isValidId } from "../ga.js";
+
+test("measurementId validates G- IDs and ignores junk", () => {
+  assert.equal(measurementId({ PODAI_GA_ID: "G-ABC123XY" }), "G-ABC123XY");
+  assert.equal(measurementId({ PODAI_GA_ID: " g-abc123xy " }), "G-ABC123XY");
+  assert.equal(measurementId({ PODAI_GA_ID: "UA-123" }), "");
+  assert.equal(measurementId({ PODAI_GA_ID: "" }), "");
+  assert.equal(measurementId({}), "");
+});
+
+test("listingMeasurementId is separate env", () => {
+  assert.equal(listingMeasurementId({ PODAI_LISTING_GA_ID: "G-LISTING1" }), "G-LISTING1");
+  assert.equal(listingMeasurementId({ PODAI_GA_ID: "G-APPONLY1" }), "");
+});
+
+test("adminSnippet empty when unset; contains id when set", () => {
+  assert.equal(adminSnippet(""), "");
+  const html = adminSnippet("G-TEST9999");
+  assert.match(html, /gtag\/js\?id=G-TEST9999/);
+  assert.match(html, /__PODAI_GA="G-TEST9999"/);
+  assert.match(html, /anonymize_ip:true/);
+  assert.doesNotMatch(html, /send_page_view:!0|send_page_view:true/);
+});
+
+test("isValidId", () => {
+  assert.equal(isValidId("G-ABCDEF"), true);
+  assert.equal(isValidId("not-an-id"), false);
+});
+
+test("admin.html contains GA placeholder for injection", async () => {
+  const fs = await import("node:fs");
+  const html = fs.readFileSync(new URL("../admin.html", import.meta.url), "utf8");
+  assert.match(html, /<!--__PODAI_GA__-->/);
+  assert.match(html, /function gaTrack/);
+  assert.match(html, /settings_saved/);
+  assert.match(html, /dashboard_view/);
+  assert.match(html, /onboarding_step/);
+});
+
+test("privacy mentions Google Analytics 4", async () => {
+  const fs = await import("node:fs");
+  const html = fs.readFileSync(new URL("../privacy.html", import.meta.url), "utf8");
+  assert.match(html, /Google Analytics 4/);
+  assert.match(html, /PODAI_GA_ID/);
+});
+
+test("storefront chat source fires anonymous GA event helpers", async () => {
+  const fs = await import("node:fs");
+  const js = fs.readFileSync(new URL("../../../apps/shopify-agent/src/chat.js", import.meta.url), "utf8");
+  for (const name of ["chat_opened", "message_sent", "product_clicked", "add_to_cart", "handoff_shown", "order_lookup"]) {
+    assert.match(js, new RegExp(name));
+  }
+  assert.match(js, /analyticsProcessingAllowed/);
+  assert.doesNotMatch(js, /gtag\("event"[^)]*message/);
+});

diff --git a/server/shopify-agent/routes.js b/server/shopify-agent/routes.js
@@ -16,6 +16,7 @@ import { trackingSources } from "./tracking.js";
 import { dashboard, recordEvent } from "./dashboard.js";
 import { saveSettings } from "./engine/store.js";
 import { llmStatus } from "./engine/llm.js";
+import * as ga from "./ga.js";
 
 const HEX = v => /^#[0-9a-f]{6}$/i.test(String(v || "")) ? String(v) : null;
 // storefront look, editable in the app (the theme app embed can override colour / position)
@@ -70,7 +71,7 @@ export function shopifyAgentRouter() {
     if (!(await core.isInstalled(v.shop))) { res.status(404).json({ error: "shop_not_installed" }); return null; } return v.shop; };
   r.get("/shopify-agent/proxy/config", notConfigured, ah(async (req, res) => { const shop = await proxyShop(req, res); if (!shop) return;
     const s = await getSettings(core.tenantFor(shop));
-    res.set("Cache-Control", "public, max-age=60").json({ enabled: s.enabled, greeting: s.greeting, widget: widgetOf(s), reply_hours: s.human_reply_hours }); }));
+    res.set("Cache-Control", "public, max-age=60").json({ enabled: s.enabled, greeting: s.greeting, widget: widgetOf(s), reply_hours: s.human_reply_hours, ga_id: ga.measurementId() || undefined }); }));
   r.post("/shopify-agent/proxy/event", notConfigured, json, ah(async (req, res) => { const shop = await proxyShop(req, res); if (!shop) return;
     res.json(await recordEvent(core.tenantFor(shop), req.body || {})); }));
 
@@ -78,7 +79,11 @@ export function shopifyAgentRouter() {
     const shop = core.normalizeShop(req.query.shop);
     if (!shop) return res.status(400).type("text/plain").send("Open this app from your Shopify admin.");
     core.setEmbeddedFrameHeaders(res, shop);
-    res.set("Cache-Control", "no-store").type("html").send(fs.readFileSync(PAGE, "utf8").replace("__API_KEY__", attr(core.config().apiKey)));
+    res.set("Cache-Control", "no-store").type("html").send(
+      fs.readFileSync(PAGE, "utf8")
+        .replace("__API_KEY__", attr(core.config().apiKey))
+        .replace("<!--__PODAI_GA__-->", ga.adminSnippet())
+    );
   });
 
   const api = express.Router();

diff --git a/server/shopify-agent/ga.js b/server/shopify-agent/ga.js
@@ -1,0 +1,24 @@
+/** Pod.AI GA4 helpers. Measurement ID from env PODAI_GA_ID (admin + storefront).
+ *  PODAI_LISTING_GA_ID is for Partner Dashboard listing only (not loaded by our app).
+ *  Never send PII, message text, e-mails, or conversation IDs. */
+const ID_RE = /^G-[A-Z0-9]{6,}$/i;
+
+export function measurementId(env = process.env) {
+  const id = String(env.PODAI_GA_ID || "").trim();
+  return ID_RE.test(id) ? id.toUpperCase() : "";
+}
+
+export function listingMeasurementId(env = process.env) {
+  const id = String(env.PODAI_LISTING_GA_ID || "").trim();
+  return ID_RE.test(id) ? id.toUpperCase() : "";
+}
+
+/** Inline snippet for embedded admin HTML. Empty string when unset (no network calls). */
+export function adminSnippet(id = measurementId()) {
+  if (!id) return "";
+  const safe = id.replace(/[^A-Z0-9-]/gi, "");
+  return `<script async src="https://www.googletagmanager.com/gtag/js?id=${safe}"></script>
+<script>window.dataLayer=window.dataLayer||[];function gtag(){dataLayer.push(arguments);}gtag("js",new Date());gtag("config","${safe}",{anonymize_ip:true,send_page_view:false});window.__PODAI_GA="${safe}";</script>`;
+}
+
+export function isValidId(id) { return ID_RE.test(String(id || "").trim()); }

diff --git a/docs/Pod.AI-App-Store-Listing.md b/docs/Pod.AI-App-Store-Listing.md
@@ -177,7 +177,7 @@ So conversations, and optionally tracking lookups, are the fair unit.
 | Free | $0 | $0 | 50 |
 | Growth | $19/mo | $182.40/yr ($15.20/mo) | 500 |
 | Pro | $49/mo | $470.40/yr ($39.20/mo) | 2,500 |
-14-day free trial on Growth and Pro. Overage $1.50 per extra 100 conversations (capped). **Billing is NOT configured** — set up via Shopify Billing API / managed pricing only after the listing is approved.
+14-day free trial on Growth and Pro. Overage $1.50 per extra 100 conversations (capped). **Billing is NOT configured.** For Plan A use **Shopify App Pricing** in the Partner Dashboard (default for new public apps; no Billing API code required). Billing API is legacy. Configure Free/Growth/Pro before paid-plan review (requirement 1.2).
 
 ### Former open decisions for pricing (resolved above)
 - Which option to use.
